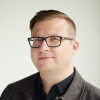
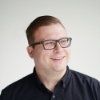
new homepage image and commenting out blogroll for now

diff --git a/public/css/style.css b/public/css/style.css
@@ -54,6 +54,9 @@
   --fontSize-5: 1.72rem;
   --fontSize-6: 1.97rem;
   --fontSize-7: 2.25rem;
+  --color-base: rgb(245 243 243);
+  --color-base-2: rgb(247 248 249);
+  --color-base-3: rgb(255, 255, 255);
   --color-body: #fdfcfb;
   --color-primary: #b33900;
   --color-text: #240b00;
@@ -67,6 +70,22 @@
 :after,
 :before {
   box-sizing: border-box;
+}
+
+.bg-base {
+  background-color: var(--color-base);
+}
+
+.bg-base-2 {
+  background-color: var(--color-base-2);
+}
+
+.bg-base-3 {
+  background-color: var(--color-base-3);
+}
+
+.bg-base-grad {
+  background-image: linear-gradient(180deg,var(--base) 20%,var(--base-3) 40%);
 }
 
 html {

diff --git a/content/index.md b/content/index.md
@@ -8,7 +8,7 @@ fullHeader: true
   <div class="e-content">
     <div style="display: flex; align-items: center; gap: var(--spacing-4); margin-bottom: var(--spacing-4);" class="h-card" itemscope itemtype="https://schema.org/Person">
       <div>
-        <img class="circle u-photo" itemprop="image" itemscope itemtype="https://schema.org/ImageObject" src="{{ metadata.url }}headshot.jpg" alt="Photo of Andrew Shell" width="50" height="50">
+        <img class="circle u-photo" itemprop="image" itemscope itemtype="https://schema.org/ImageObject" src="img/profile-pic.png" alt="Photo of Andrew Shell" style="width: 500px">
       </div>
       <div>
         <p>Hi!, I'm <a class="p-name u-url u-uid" rel="me" href="{{ metadata.url }}" itemprop="name"><span class="p-given-name" itemprop="givenName">{{ metadata.author.givenName }}</span> <span class="p-family-name" itemprop="familyName">{{ metadata.author.familyName }}</span></a> a <span class="p-job-title" itemprop="jobTitle">{{ metadata.author.jobTitle }}</span> from <span class="adr"><span class="p-locality">{{ metadata.author.locality }}</span>, <abbr class="p-region" title="{{ metadata.author.region }}">{{ metadata.author.regionAbbr }}</abbr></span>.</p>
@@ -61,6 +61,8 @@ fullHeader: true
 {% endfor %}
 </ul>
 
+<!--
 ## Blogroll <small>([See River](https://feedland.com/newsproduct?username=andrewshell))</small>
 
 <blog-roll opmlurl="https://feedland.com/opml?screenname=andrewshell&catname=blogroll"></blog-roll>
+-->
